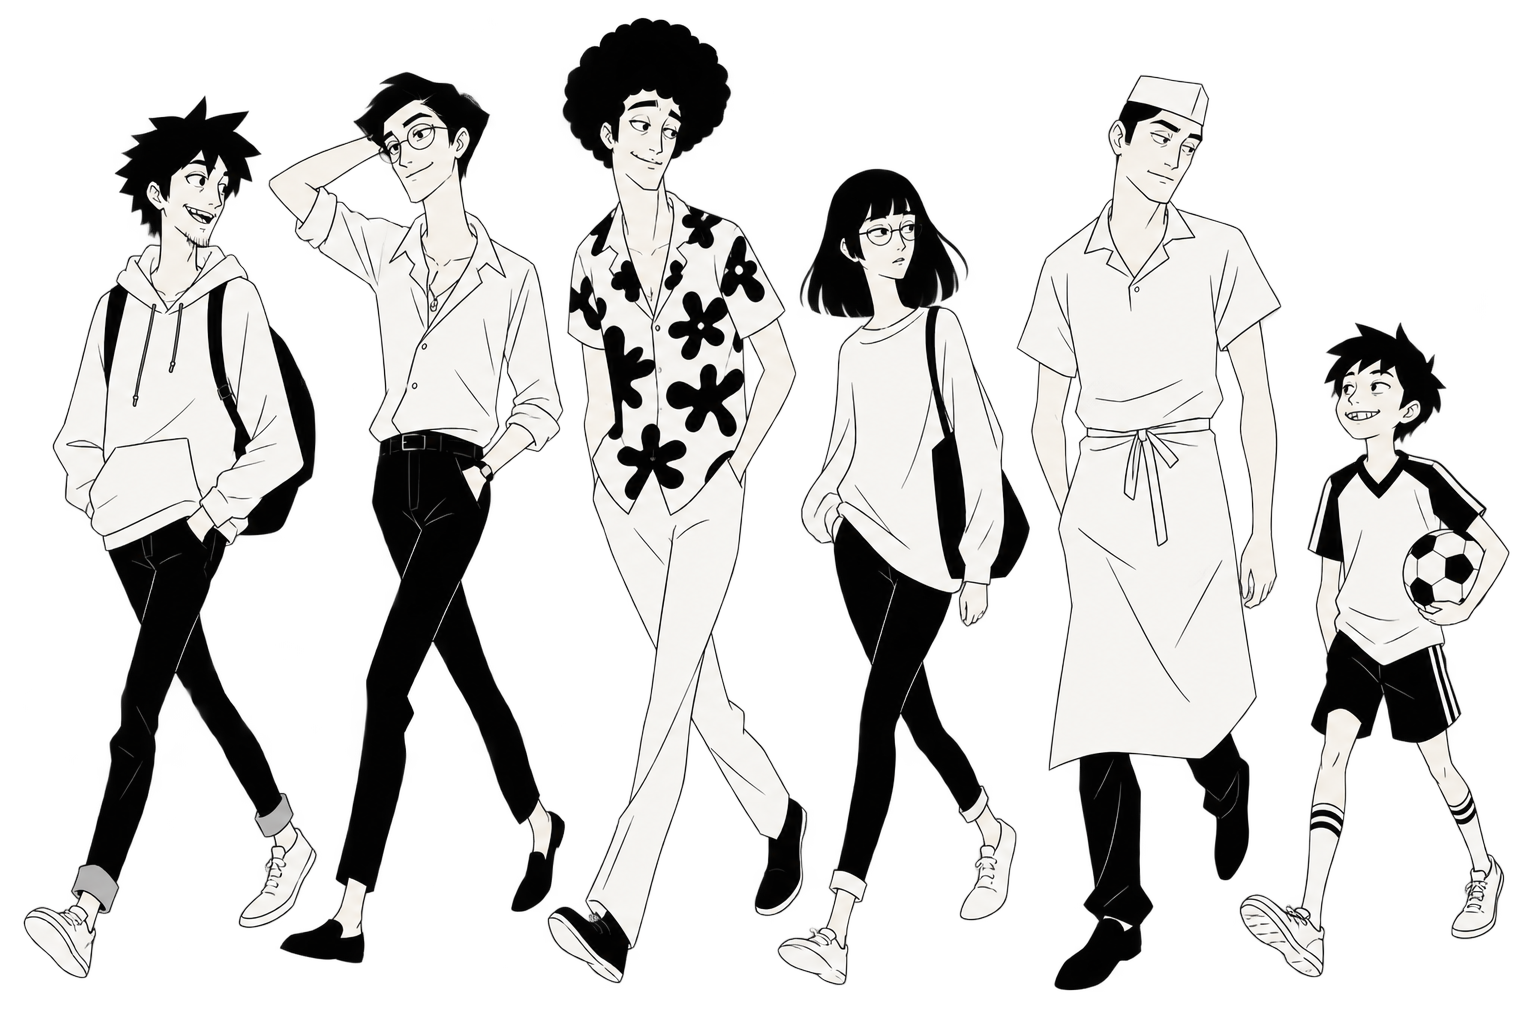
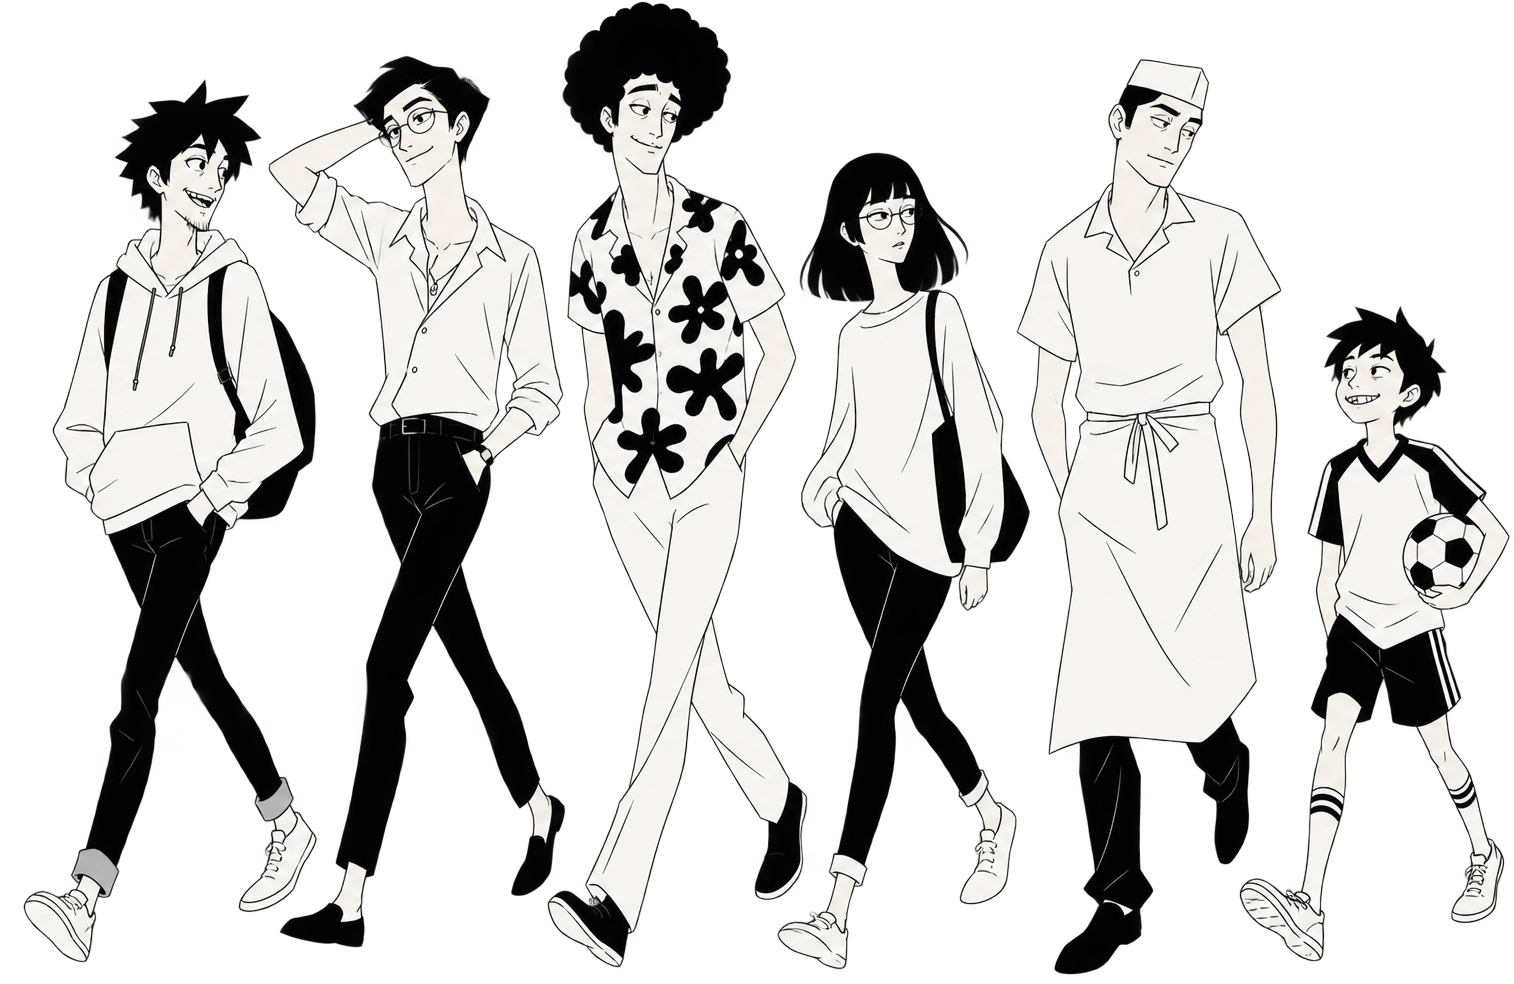
Pasada de UI: sistema visual y los personajes dentro de la app
Del repaso de diseño tomé lo que faltaba de verdad, sin tocar distribución,
navegación ni funciones:

· Escala de espacios (múltiplos de 4) y escala tipográfica. Estaban los valores
  sueltos por el archivo —5, 9, 11, 14…— y cada componente elegía el suyo, así
  que dos cosas separadas «igual» no lo estaban.
· Foco visible. No había ninguno: con teclado no se sabía dónde estabas, y en
  una app de estudio se navega mucho con tabulador. :focus-visible y no :focus,
  para que no salga el anillo al tocar con el dedo.
· Sombras en dos alturas. Las tarjetas tenían borde pero ninguna elevación, así
  que se leían como cajas dibujadas y no como superficies.
· Badges de estado con el mismo sistema que los de nivel.
· En la lista de vocabulario, la palabra manda y la glosa se escanea.

Y los personajes: hero en la portada, Carlos esperando cuando no hay nada que
repasar, Anna ofreciendo el libro en el muro —un candado dice «no puedes» y el
dibujo dice «toma»— y Gonsa y Jean al aprobar un examen, sólo al aprobar.

Van con fondo transparente y se invierten en tema oscuro: la app tiene los dos
temas y un rectángulo blanco sobre el fondo oscuro se vería como un parche.

Lo que NO tomé: la paleta lavanda que proponía. Resulta que el acento ya es
lavanda (#9184d9), así que no había nada que cambiar.

Claude-Session: https://claude.ai/code/session_01LFVZRHazvSKogv1ZKS2gj5

diff --git a/src/app/globals.css b/src/app/globals.css
@@ -46,6 +46,24 @@
   --fantasma: rgba(233,233,237,.05);   /* el numeral kanji de fondo */
   --pista: rgba(233,233,237,.13);      /* el resto del aro, la barra vacía */
 
+  /* --- escala de espacios: múltiplos de 4, que es lo que usa el resto ---
+     Estaban los valores sueltos por el archivo (5, 9, 11, 14…) y cada
+     componente elegía el suyo. Con la escala, dos cosas separadas «igual» lo
+     están de verdad. */
+  --e1: 4px; --e2: 8px; --e3: 12px; --e4: 16px; --e5: 24px; --e6: 32px;
+
+  /* --- escala tipográfica --- */
+  --t-xs: 11px;    /* etiquetas */
+  --t-sm: 12.5px;  /* secundario */
+  --t-md: 14px;    /* cuerpo */
+  --t-lg: 17px;    /* subtítulo */
+  --t-xl: 22px;    /* título */
+  --peso-medio: 500; --peso-fuerte: 600;
+
+  /* --- sombras: dos alturas, no una --- */
+  --sombra-1: 0 1px 2px rgba(0,0,0,.28);
+  --sombra-2: 0 2px 6px rgba(0,0,0,.30), 0 12px 28px -20px rgba(0,0,0,.75);
+
   --jp: "Noto Sans JP", "Hiragino Sans", "Yu Gothic", sans-serif;
   --ui: var(--fuente-ui), "Inter", -apple-system, BlinkMacSystemFont, "Segoe UI", Roboto, sans-serif;
   --barra: 62px;
@@ -66,6 +84,8 @@
     --fantasma: rgba(41,43,49,.07);
     --pista: rgba(41,43,49,.13);
     --sombra: 0 1px 2px rgba(35,37,50,.06), 0 10px 30px -18px rgba(35,37,50,.35);
+    --sombra-1: 0 1px 2px rgba(35,37,50,.07);
+    --sombra-2: 0 2px 6px rgba(35,37,50,.08), 0 12px 28px -20px rgba(35,37,50,.30);
     color-scheme: light;
   }
 }
@@ -689,3 +709,67 @@ em.g.n3 { border-color: color-mix(in srgb, var(--n3) 60%, transparent); }
    かばん— e invertir volvería el azul naranja y el rojo cian, o sea que
    destruiría la respuesta. Se quedan sobre su tarjeta blanca, que se lee como
    papel. */
+
+/* ================= sistema visual: lo que faltaba ==================== */
+
+/* Foco visible. No había ninguno: con teclado no se sabía dónde estabas, y
+   en una app de estudio se navega mucho con tabulador. `:focus-visible` y no
+   `:focus` para que no salga el anillo al tocar con el dedo. */
+:where(a, button, input, select, textarea, [tabindex]):focus-visible {
+  outline: 2px solid var(--acento);
+  outline-offset: 2px;
+  border-radius: var(--radio-sm);
+}
+
+/* Las tarjetas tenían borde pero ninguna elevación, así que se leían como
+   cajas dibujadas y no como superficies. */
+.tarjeta { box-shadow: var(--sombra-1); }
+.tarjeta.elevada { box-shadow: var(--sombra-2); }
+
+/* Divisor tenue, para separar sin dibujar una línea dura. */
+.divisor {
+  height: 1px; border: 0; margin: var(--e4) 0;
+  background: linear-gradient(90deg, transparent, var(--linea) 12%,
+              var(--linea) 88%, transparent);
+}
+
+/* --- vocabulario: la palabra manda, la glosa se escanea ---------------
+   La fila era palabra y significado al mismo tamaño y con el mismo peso, así
+   que para encontrar una palabra había que leerlas todas. */
+.lista-vocab > div { border-radius: var(--radio-sm); }
+.lista-vocab > div + div { box-shadow: inset 0 1px 0 var(--linea); }
+.lista-vocab .jp-medio { font-weight: var(--peso-medio); }
+.glosa { font-size: var(--t-md); line-height: 1.45; }
+.glosa-sec { display: block; font-size: var(--t-xs); color: var(--tinta-3); margin-top: 1px; }
+
+/* --- badges: un solo sistema para nivel y para estado ---------------- */
+.pastilla.estado { border-color: transparent; padding: 1px 7px; font-size: var(--t-xs); }
+.pastilla.estado.nueva      { background: var(--pista); color: var(--tinta-3); }
+.pastilla.estado.aprendiendo{ background: color-mix(in srgb, var(--acento) 16%, transparent);
+                              color: var(--acento-300); }
+.pastilla.estado.dominada   { background: color-mix(in srgb, var(--acento) 26%, transparent);
+                              color: var(--acento-300); }
+.pastilla.estado.vencida    { background: color-mix(in srgb, var(--rojo) 18%, transparent);
+                              color: var(--rojo); }
+
+/* --- gráficos de los personajes en la interfaz ----------------------- */
+.grafico {
+  display: block; width: 100%; height: auto;
+  /* Son de tinta negra sobre transparente: en tema oscuro hay que invertirlos
+     o no se ven. Al ser monocromos, invertir no estropea ningún color. */
+  filter: none;
+}
+:root[data-tema="oscuro"] .grafico { filter: invert(1); }
+@media (prefers-color-scheme: dark) {
+  :root:not([data-tema="claro"]) .grafico { filter: invert(1); }
+}
+.hero {
+  margin: 0 0 var(--e2);
+  /* Sin tope, a ancho completo se come media pantalla en un móvil. Se recorta
+     por abajo, que es donde están los pies y donde ya se difumina. */
+  max-height: 190px; object-fit: cover; object-position: 50% 12%;
+  /* se difumina por abajo para que no acabe en un corte recto */
+  -webkit-mask-image: linear-gradient(180deg, #000 72%, transparent);
+  mask-image: linear-gradient(180deg, #000 72%, transparent);
+}
+.grafico-vacio { max-width: 190px; margin: var(--e4) auto var(--e3); opacity: .9; }

diff --git a/src/components/MuroDePago.tsx b/src/components/MuroDePago.tsx
@@ -25,14 +25,11 @@ export function MuroDePago({ que, cerrar, nivel }: {
     <div style={{ textAlign: "center", maxWidth: 380, margin: "0 auto", position: "relative" }}>
       <div className="halo" />
 
-      <div style={{
-        position: "relative", width: 76, height: 76, margin: "0 auto 20px",
-        borderRadius: "50%", display: "grid", placeItems: "center",
-        background: "color-mix(in srgb, var(--acento) 14%, transparent)",
-        border: "1px solid color-mix(in srgb, var(--acento) 30%, transparent)",
-      }}>
-        <IcCandado size={30} weight="light" style={{ color: "var(--acento)" }} />
-      </div>
+      {/* Anna ofreciendo el libro, en vez de un candado. Esta pantalla
+          vende: un candado dice «no puedes», y el dibujo dice «toma». */}
+      {/* eslint-disable-next-line @next/next/no-img-element */}
+      <img src="/graficos/muro.png" alt="" className="grafico grafico-vacio"
+           style={{ maxWidth: 150, marginTop: 0 }} />
 
       <h2 style={{ fontSize: 20, fontWeight: 500, margin: "0 0 8px", lineHeight: 1.35 }}>
         {t(que === "examen" ? "muro.tituloExamen" : "muro.tituloContenido")}

diff --git a/src/components/VistaUnidad.tsx b/src/components/VistaUnidad.tsx
@@ -123,8 +123,8 @@ export function VistaUnidad({ unidad, palabras, gramatica, kanji, siguiente, ind
                         // encendido el interruptor global de 意味.
                         <button className="revelado-td" disabled={significado}
                                 onClick={() => setAbierto({ ...abierto, [w.id]: false })}>
-                          <span style={{ fontSize: 13.5 }}>{sig(w, idioma)}</span>
-                          <span style={{ display: "block", fontSize: 11, color: "var(--tinta-3)" }}>
+                          <span className="glosa">{sig(w, idioma)}</span>
+                          <span className="glosa-sec">
                             {w.registro.length > 0 && <em>{w.registro.join(" · ")} — </em>}
                             {sigSec(w, idioma)}
                           </span>

diff --git a/src/components/Examen.tsx b/src/components/Examen.tsx
@@ -194,6 +194,12 @@ export function Examen({ ajuste, cerrar }: { ajuste: Ajuste; cerrar: () => void 
           <p style={{ margin: 0, fontSize: 13, color: "var(--tinta-2)" }}>
             {t("ex.puntos", { n: puntos, total: tope })} · {t("ex.aciertos", { a: aciertos, n: items.length })}
           </p>
+          {/* Sólo cuando se aprueba: felicitar por un 40 % no felicita a nadie. */}
+          {puntos >= tope * 0.6 && (
+            // eslint-disable-next-line @next/next/no-img-element
+            <img src="/graficos/listo.png" alt="" className="grafico grafico-vacio"
+                 style={{ maxWidth: 160 }} />
+          )}
         </div>
 
         <h2 className="enc-seccion">{t("ex.porSeccion")}</h2>

diff --git a/src/components/Repaso.tsx b/src/components/Repaso.tsx
@@ -72,7 +72,8 @@ export function Repaso() {
   if (!todas.length) {
     return (
       <div className="tarjeta" style={{ marginTop: 48, textAlign: "center", padding: 40 }}>
-        <span className="jp" style={{ fontSize: 30, fontWeight: 500, color: "var(--acento)" }}>休</span>
+        {/* eslint-disable-next-line @next/next/no-img-element */}
+        <img src="/graficos/vacio.png" alt="" className="grafico grafico-vacio" />
         <p style={{ fontSize: 16 }}>{t("rep.nadaVencido")}</p>
         <p className="silencio">
           {proxima ? t("rep.proxima", { t: proxima }) : t("rep.sinNada")}

diff --git a/src/components/Inicio.tsx b/src/components/Inicio.tsx
@@ -41,6 +41,11 @@ export function Inicio({ niveles, totales, dentro = true }: {
 
   return (
     <>
+      {/* Los personajes del libro presentando la app. Va difuminado por abajo
+          para que no acabe en un corte recto contra el título. */}
+      {/* eslint-disable-next-line @next/next/no-img-element */}
+      <img src="/graficos/hero.png" alt="" className="grafico hero" />
+
       <section style={{ padding: "6px 0 12px" }}>
         <h1 className="jp" style={{ fontSize: 26, fontWeight: 500, lineHeight: 1.25, margin: "0 0 6px" }}>
           日本語能力試験
